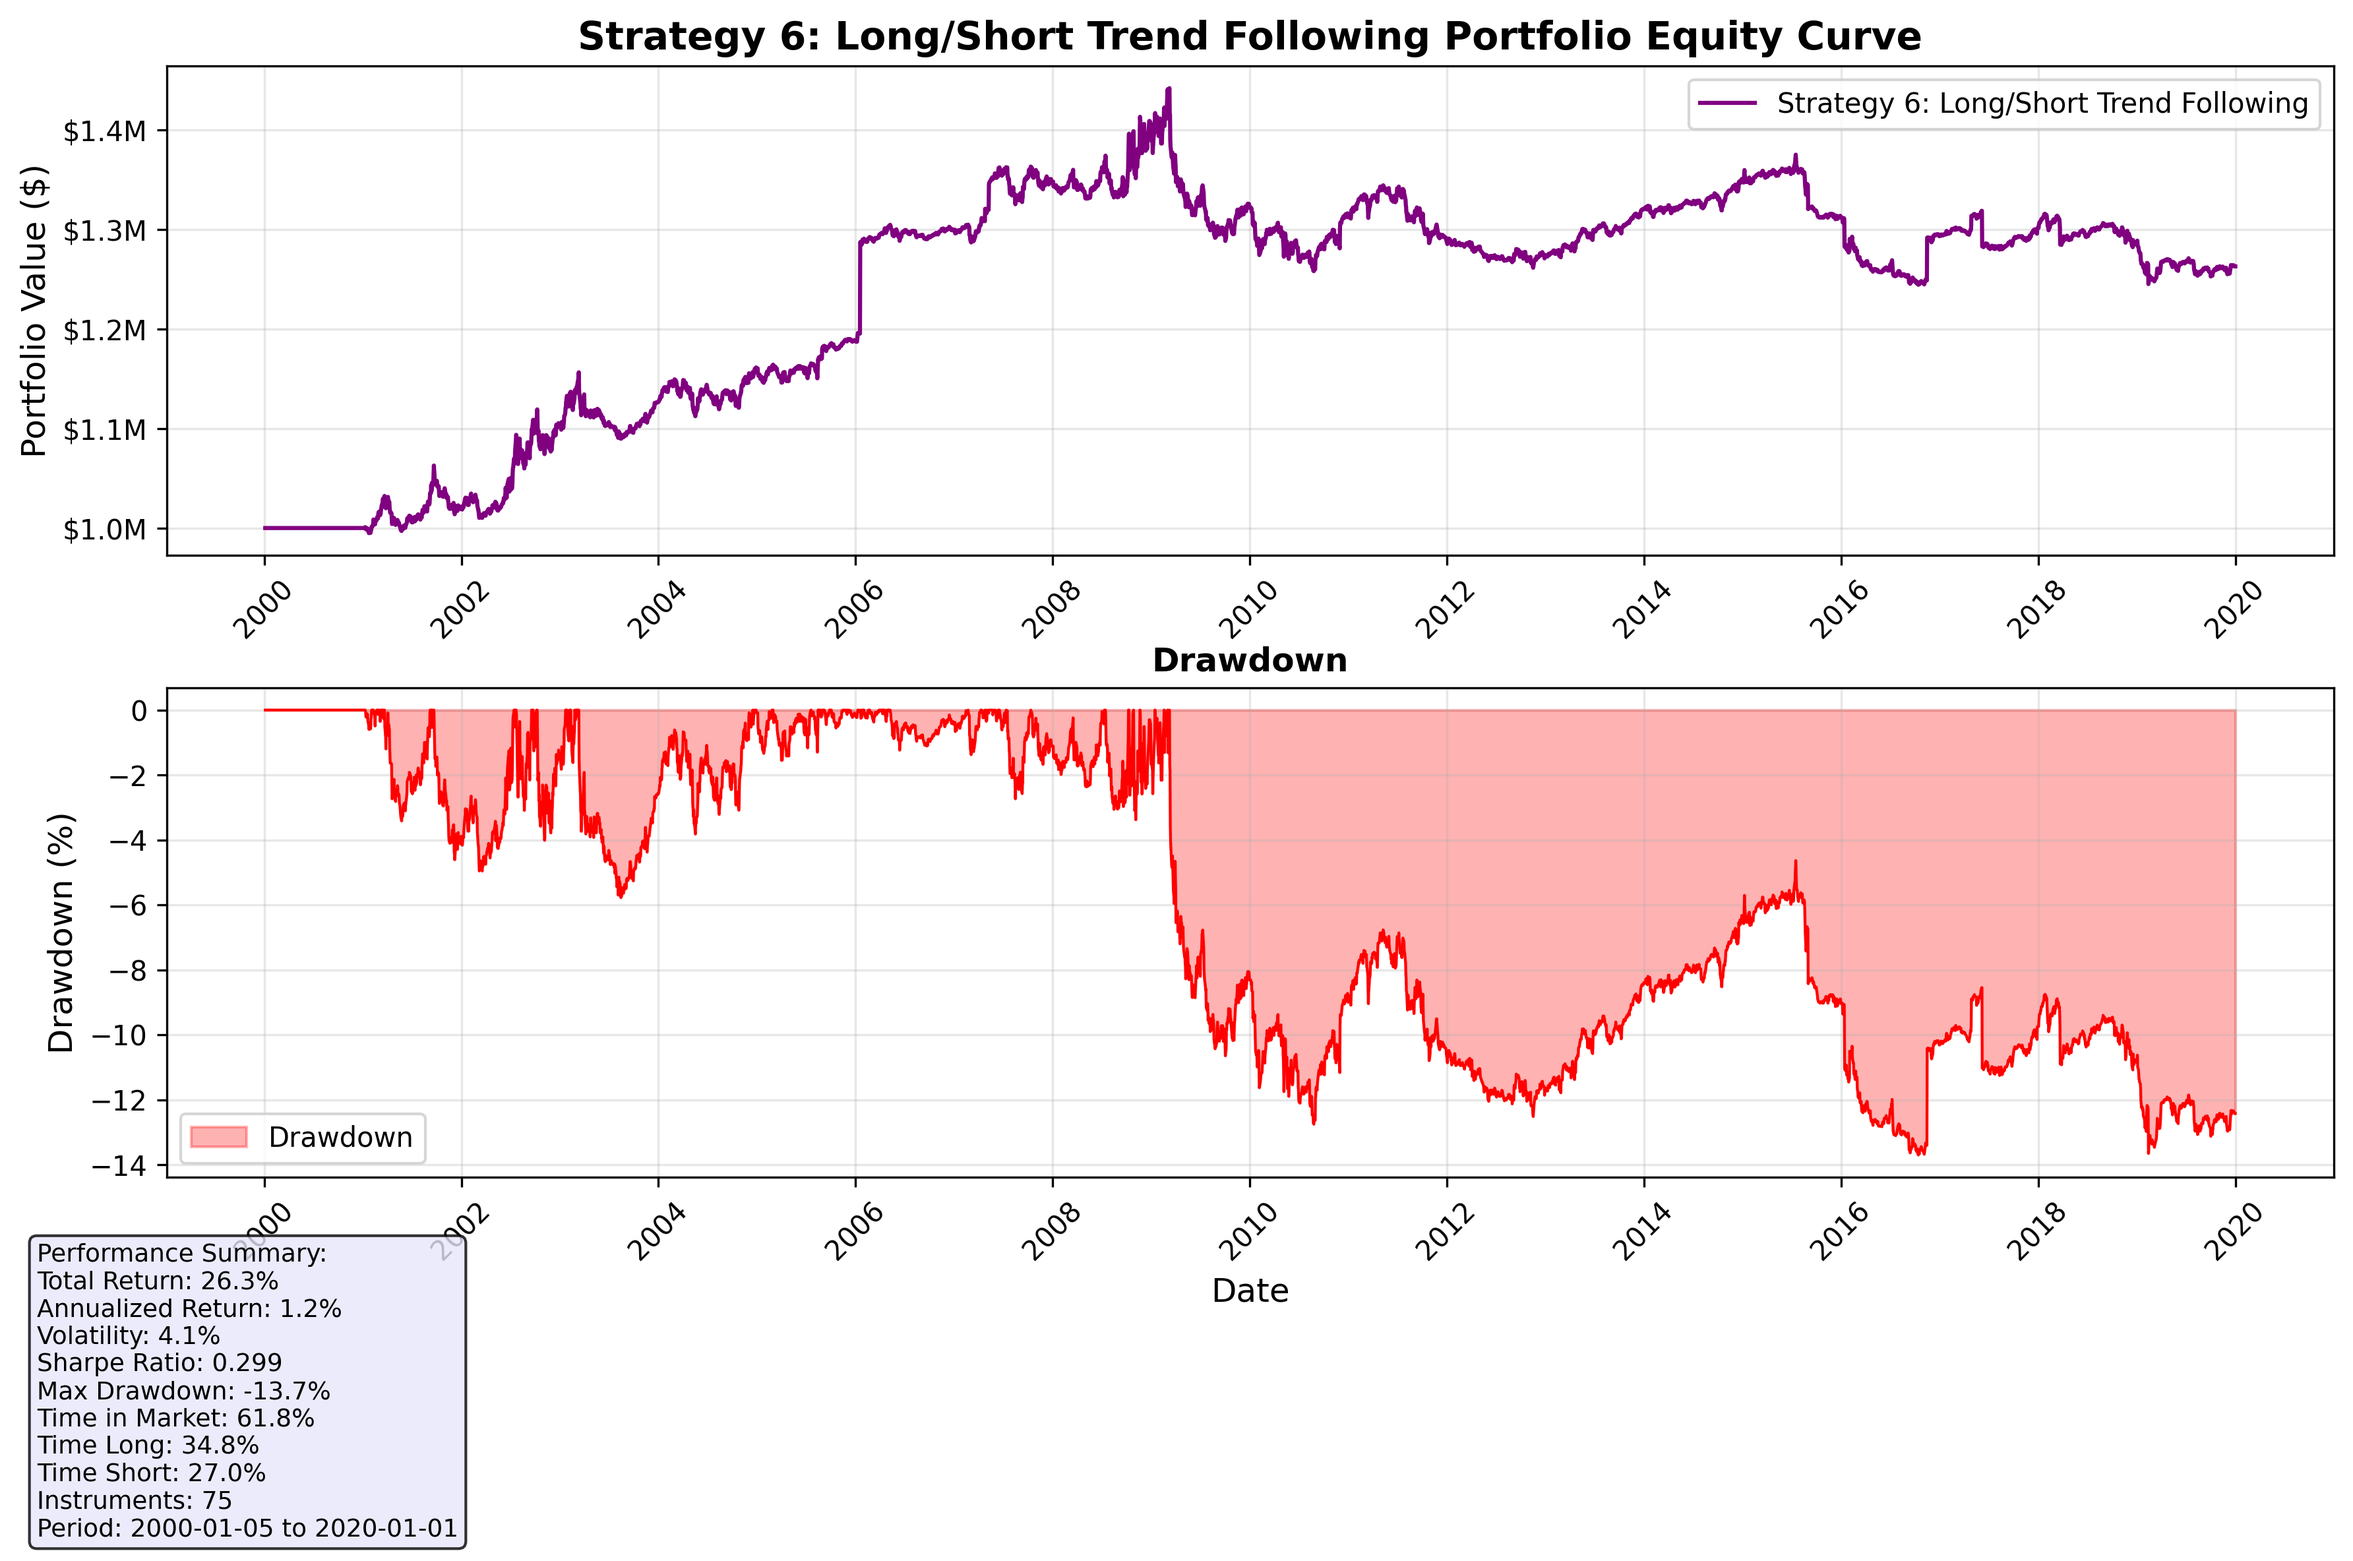
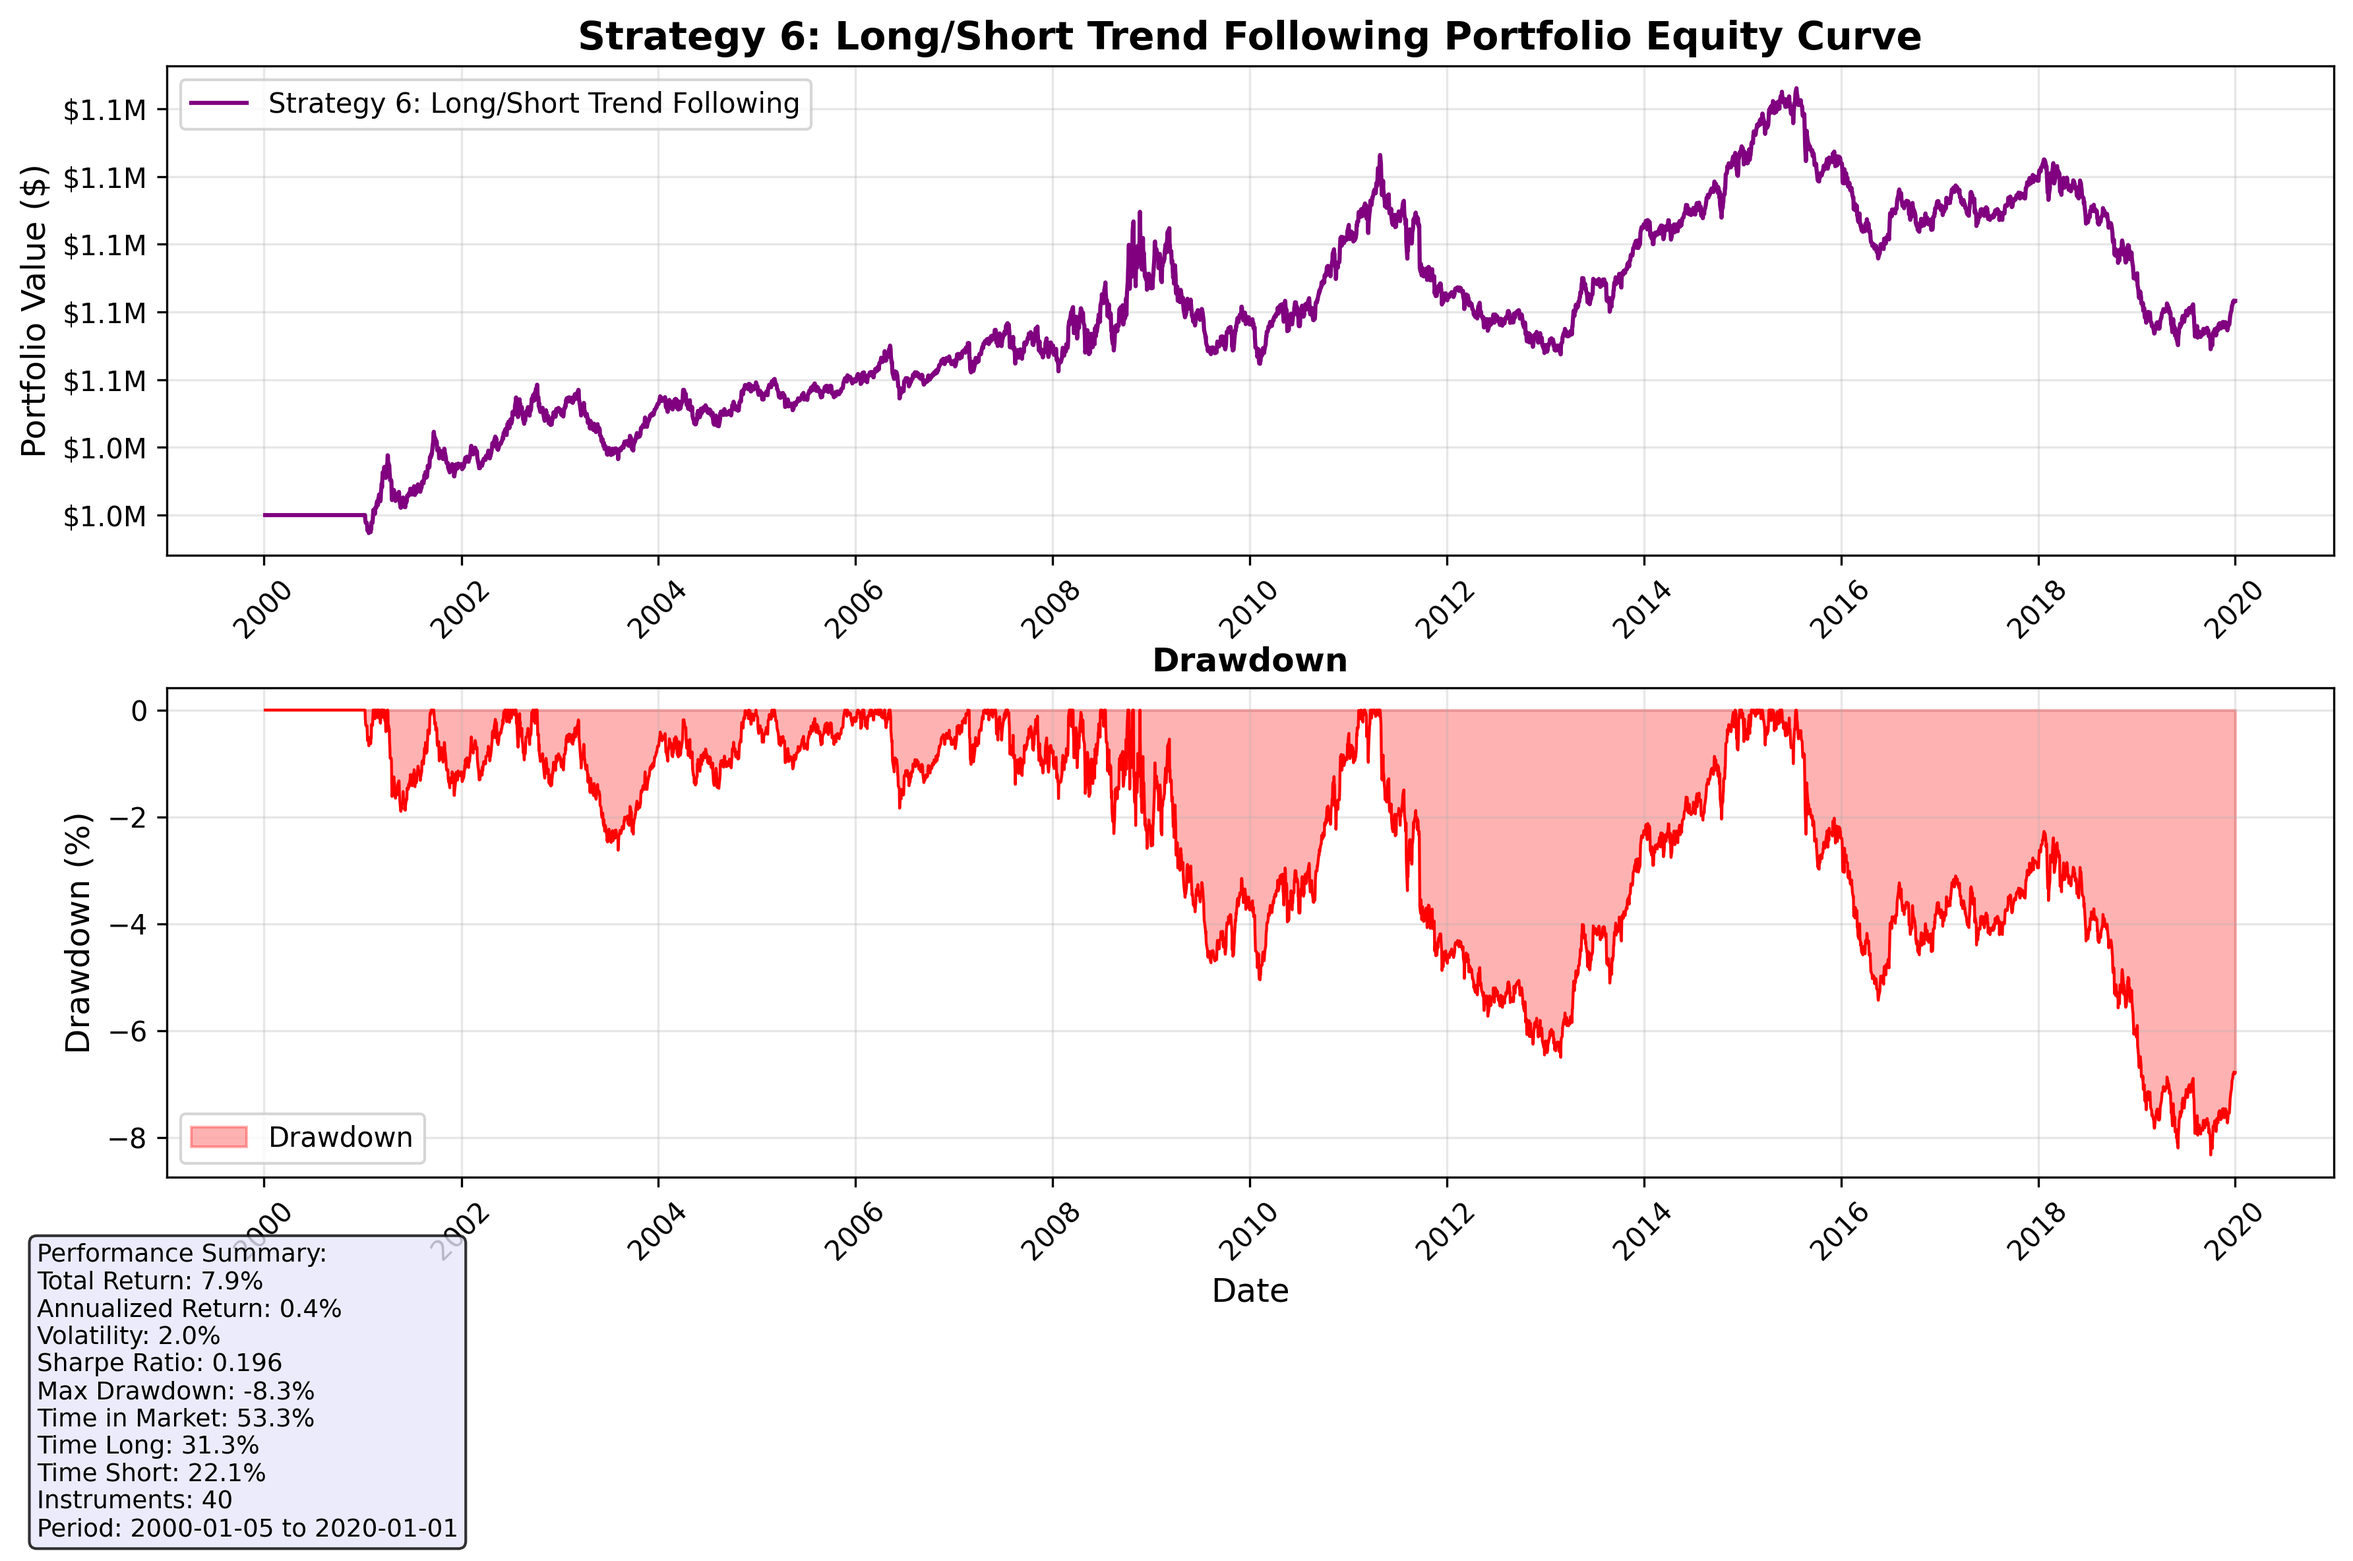
live port fixes again

diff --git a/rob_port/chapter5.py b/rob_port/chapter5.py
@@ -1,7 +1,7 @@
-from chapter4 import *
-from chapter3 import *
-from chapter2 import *
-from chapter1 import *
+from rob_port.chapter4 import *
+from rob_port.chapter3 import *
+from rob_port.chapter2 import *
+from rob_port.chapter1 import *
 import numpy as np
 import pandas as pd
 import os
@@ -209,20 +209,18 @@ def backtest_trend_following_strategy(data_dir='Data', capital=1000000, risk_tar
     print(f"  Common Hypothetical SR for SR': {common_hypothetical_SR}")
     print(f"  Annual Turnover T for SR': {annual_turnover_T}")
 
-    # Preprocess: Calculate returns, vol forecasts, and trend signals for each instrument
+    # Preprocess: Calculate returns and vol forecasts for each instrument (same as Strategy 4)
     processed_instrument_data = {}
     for symbol, df_orig in raw_instrument_data.items():
         df = df_orig.copy()
         if 'Last' not in df.columns:
-            print(f"Skipping {symbol}: 'Last' column missing.")
             continue
         
         df['daily_price_change_pct'] = df['Last'].pct_change()
         
         # Volatility forecast for day D is made using data up to D-1 (no lookahead bias)
         raw_returns_for_vol = df['daily_price_change_pct'].dropna()
-        if len(raw_returns_for_vol) < max(short_span, trend_slow_span):
-            print(f"Skipping {symbol}: Insufficient data for vol forecast and trend ({len(raw_returns_for_vol)} days).")
+        if len(raw_returns_for_vol) < short_span:  # Need enough data for EWMA
             continue
 
         # Calculate blended volatility (same as Strategy 4)
@@ -232,13 +230,9 @@ def backtest_trend_following_strategy(data_dir='Data', capital=1000000, risk_tar
         # Shift to prevent lookahead bias - forecast for day T uses data up to T-1
         df['vol_forecast'] = blended_vol_series.shift(1).reindex(df.index).ffill().fillna(min_vol_floor)
         
-        # Calculate trend signal using EWMAC (no lookahead bias)
-        # No need to shift here since we'll apply the filter directly to positions later
-        
         # Ensure critical data is present
         df.dropna(subset=['Last', 'vol_forecast', 'daily_price_change_pct'], inplace=True)
         if df.empty:
-            print(f"Skipping {symbol}: Empty after dropping NaNs in critical columns.")
             continue
 
         processed_instrument_data[symbol] = df
@@ -247,6 +241,37 @@ def backtest_trend_following_strategy(data_dir='Data', capital=1000000, risk_tar
         raise ValueError("No instruments remaining after preprocessing and volatility calculation.")
     
     print(f"  Instruments after preprocessing: {len(processed_instrument_data)}")
+    
+    # Apply the same instrument selection process as Strategy 4 (including minimum capital filtering)
+    print(f"\nApplying instrument selection with minimum capital requirements...")
+    weights = calculate_instrument_weights(
+        processed_instrument_data, 
+        method=weight_method, 
+        instruments_df=all_instruments_specs_df,
+        common_hypothetical_SR=common_hypothetical_SR,
+        annual_turnover_T=annual_turnover_T,
+        risk_target=risk_target,
+        capital=capital,
+        fx_data=fx_data,
+        currency_mapping=currency_mapping,
+        filter_by_capital=True,  # Enable minimum capital filtering
+        assumed_num_instruments=10
+    )
+    
+    # Filter processed_instrument_data to only include instruments with weights > 0
+    eligible_instruments = {symbol: df for symbol, df in processed_instrument_data.items() 
+                          if weights.get(symbol, 0.0) > 1e-6}
+    
+    if not eligible_instruments:
+        raise ValueError("No instruments remain after minimum capital filtering.")
+    
+    processed_instrument_data = eligible_instruments
+    print(f"  Instruments after capital filtering: {len(processed_instrument_data)}")
+    
+    # Calculate IDM based on filtered instruments
+    num_weighted_instruments = len([w for w in weights.values() if w > 1e-6])
+    idm = calculate_idm_from_count(num_weighted_instruments)
+    print(f"  IDM: {idm:.2f} based on {num_weighted_instruments} eligible instruments")
 
     # Determine common date range for backtest (same logic as chapter 4)
     all_indices = [df.index for df in processed_instrument_data.values() if not df.empty]
@@ -280,9 +305,7 @@ def backtest_trend_following_strategy(data_dir='Data', capital=1000000, risk_tar
     # Initialize portfolio tracking (same structure as chapter 4)
     current_portfolio_equity = capital
     portfolio_daily_records = []
-    known_eligible_instruments = set()
-    weights = {} 
-    idm = 1.0
+    known_eligible_instruments = set(processed_instrument_data.keys())  # Start with filtered instruments
     
     # Initialize position tracking for cost calculation
     previous_positions = {}
@@ -307,57 +330,14 @@ def backtest_trend_following_strategy(data_dir='Data', capital=1000000, risk_tar
         num_active_instruments = 0
         num_long_signals = 0
 
-        effective_data_cutoff_date = previous_trading_date if idx > 0 else current_date - pd.tseries.offsets.BDay(1)
-
-        # Determine current period eligible instruments based on data up to cutoff
-        current_iteration_eligible_instruments = set()
-        for s, df_full in processed_instrument_data.items():
-            df_upto_cutoff = df_full[df_full.index <= effective_data_cutoff_date]
-            if not df_upto_cutoff.empty and len(df_upto_cutoff) > max(short_span, trend_slow_span):
-                current_iteration_eligible_instruments.add(s)
-        
-        # Check if reweighting is needed (same logic as chapter 4)
-        perform_reweight = False
-        if idx == 1:  # First actual trading day
-            perform_reweight = True
-            print(f"Performing initial re-weighting for date: {current_date.date()}")
-        elif len(current_iteration_eligible_instruments) > len(known_eligible_instruments):
-            newly_added = current_iteration_eligible_instruments - known_eligible_instruments
-            perform_reweight = True
-            print(f"Performing re-weighting for date: {current_date.date()} due to new eligible instruments: {newly_added}")
-        
-        if perform_reweight:
-            known_eligible_instruments = current_iteration_eligible_instruments.copy()
-            
-            data_for_reweighting = {}
-            for s_eligible in known_eligible_instruments:
-                df_historical_slice = processed_instrument_data[s_eligible][processed_instrument_data[s_eligible].index <= effective_data_cutoff_date]
-                if not df_historical_slice.empty:
-                     data_for_reweighting[s_eligible] = df_historical_slice
-            
-            if data_for_reweighting:
-                weights = calculate_instrument_weights(
-                    data_for_reweighting, 
-                    weight_method, 
-                    all_instruments_specs_df,
-                    common_hypothetical_SR,
-                    annual_turnover_T,
-                    risk_target
-                )
-                
-                num_weighted_instruments = sum(1 for w_val in weights.values() if w_val > 1e-6)
-                idm = calculate_idm_from_count(num_weighted_instruments)
-                print(f"  New IDM: {idm:.2f} based on {num_weighted_instruments} instruments with weight > 0.")
-            else:
-                print(f"Warning: No data available for reweighting on {current_date.date()} despite eligibility signal.")
+        # Since instruments are already filtered by capital requirements, 
+        # we don't need to re-filter during the backtest loop.
+        # The weights and IDM are already calculated above.
 
         # Calculate positions and P&L for each instrument
         for symbol, df_instrument in processed_instrument_data.items():
-            try:
-                specs = get_instrument_specs(symbol, all_instruments_specs_df)
-                instrument_multiplier = specs['multiplier']
-            except:
-                continue
+            specs = get_instrument_specs(symbol, all_instruments_specs_df)
+            instrument_multiplier = specs['multiplier']
                 
             instrument_weight = weights.get(symbol, 0.0)
 
@@ -1002,10 +982,10 @@ def main():
     # ===========================================
     # CONFIGURATION - MODIFY THESE AS NEEDED
     # ===========================================
-    CAPITAL = 1000000               # Starting capital
+    CAPITAL = 50000000              # Starting capital
     START_DATE = '2000-01-01'       # Backtest start date (YYYY-MM-DD) or None for earliest available
     END_DATE = '2025-12-31'         # Backtest end date (YYYY-MM-DD) or None for latest available
-    RISK_TARGET = 0.2               # 20% annual risk target
+    RISK_TARGET = 0.5               # 20% annual risk target
     WEIGHT_METHOD = 'handcrafted'   # 'equal', 'vol_inverse', or 'handcrafted'
     TREND_FAST_SPAN = 64            # Fast EWMA span for trend filter
     TREND_SLOW_SPAN = 256           # Slow EWMA span for trend filter

diff --git a/portfolio/live_port.py b/portfolio/live_port.py
@@ -449,8 +449,8 @@ def get_current_price(ib, contract, symbol):
             current_price = (ticker.bid + ticker.ask) / 2
             price_source = "mid"
         
-        # Cancel market data subscription
-        ib.cancelMktData(ticker)
+        # Cancel market data subscription using the contract (not ticker)
+        ib.cancelMktData(contract)
         
         if current_price:
             logger.info(f"Current {symbol} price: {current_price} (source: {price_source})")
